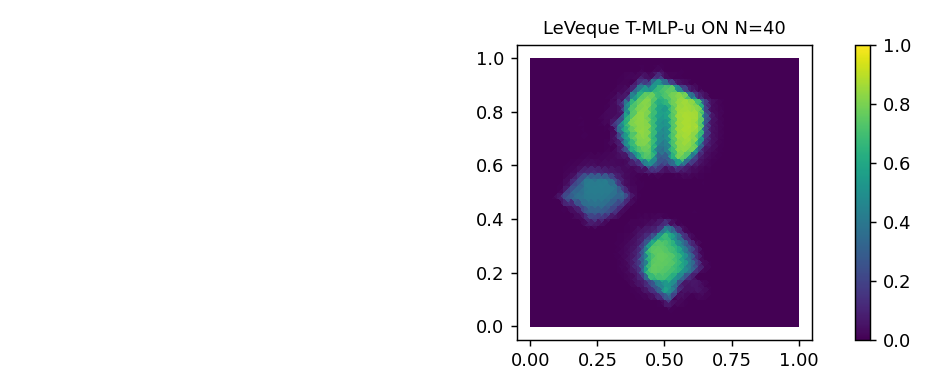
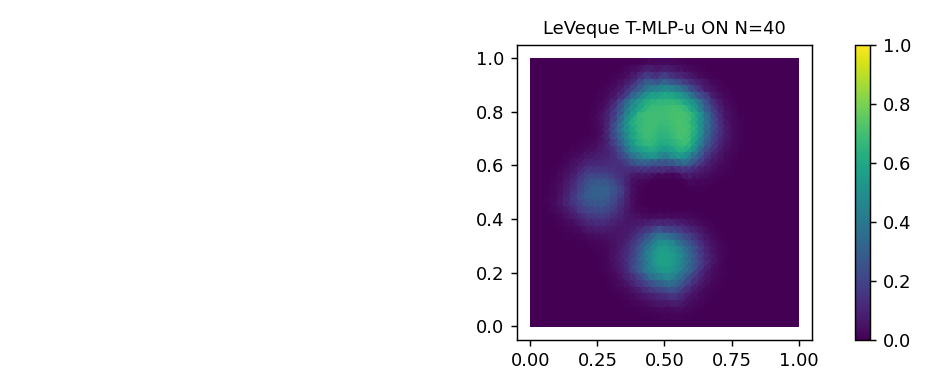
experiment: standardize T-MLP-u paper comparison on SUPERBEE

Changed region(s): [[0.5887, 0.1538, 0.7746, 0.7692]]

diff --git a/solver/solve_T-MLP-u/tests/test_2d_tmlpu_paper_benchmarks.py b/solver/solve_T-MLP-u/tests/test_2d_tmlpu_paper_benchmarks.py
@@ -246,8 +246,16 @@ def _quad_mesh(nx, ny, Lx, Ly, *, origin=(0.0, 0.0), keep=None,
 
 
 def _tmlpu_leveque():
-    return TMLPU(tvd='cicsam_co38', tvd_smooth='van_leer',
-                 tvd_smooth2='minmod', mlp_bound=True,
+    return TMLPU(tvd='superbee', mlp_bound=True,
+                 extremum_relax=True, tvb_M=64.0,
+                 smoothness_threshold=0.10,
+                 smoothness_threshold2=0.05,
+                 virtual_uu_gradient=True, stencil='vertex2',
+                 order=3, idw_p=6)
+
+
+def _tmlpu_off_leveque():
+    return TMLPU(tvd='superbee', mlp_bound=False,
                  extremum_relax=True, tvb_M=64.0,
                  smoothness_threshold=0.10,
                  smoothness_threshold2=0.05,
@@ -268,13 +276,7 @@ def _tmlpu_off_euler():
 def _comparison_suite(kind):
     if kind == 'leveque':
         t_on = _tmlpu_leveque()
-        t_off = TMLPU(tvd='cicsam_co38', tvd_smooth='van_leer',
-                      tvd_smooth2='minmod', mlp_bound=False,
-                      extremum_relax=True, tvb_M=64.0,
-                      smoothness_threshold=0.10,
-                      smoothness_threshold2=0.05,
-                      virtual_uu_gradient=True, stencil='vertex2',
-                      order=3, idw_p=6)
+        t_off = _tmlpu_off_leveque()
     else:
         t_on = _tmlpu_euler()
         t_off = _tmlpu_off_euler()
@@ -553,6 +555,13 @@ def main():
             f.write('\t'.join(str(row.get(k, '')) for k in keys) + '\n')
 
     summary = {
+        'comparison_definition': {
+            'T-MLP-u OFF': 'SUPERBEE TVD-only reconstruction with mlp_bound=False',
+            'T-MLP-u ON': 'T-MLP-u wrapper plus SUPERBEE with mlp_bound=True',
+            'leveque_flux': 'upwind',
+            'double_mach_flux': 'llf',
+            'mach3_step_flux': 'llf',
+        },
         'fail_count': int(sum(0 if v else 1 for v in case_status.values())),
         'pass_count': int(sum(1 if v else 0 for v in case_status.values())),
         'total': 3,
